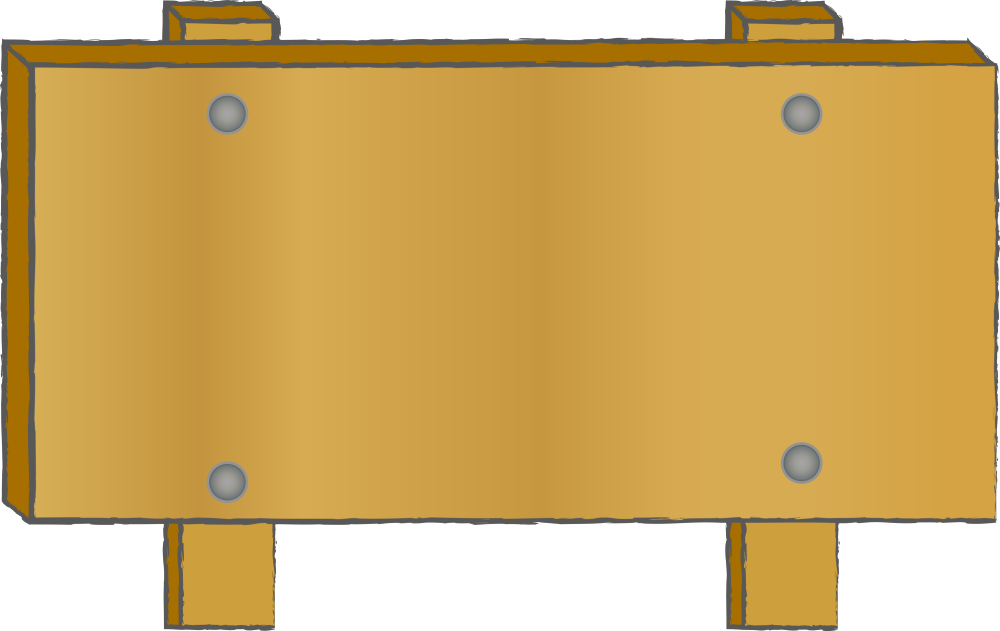
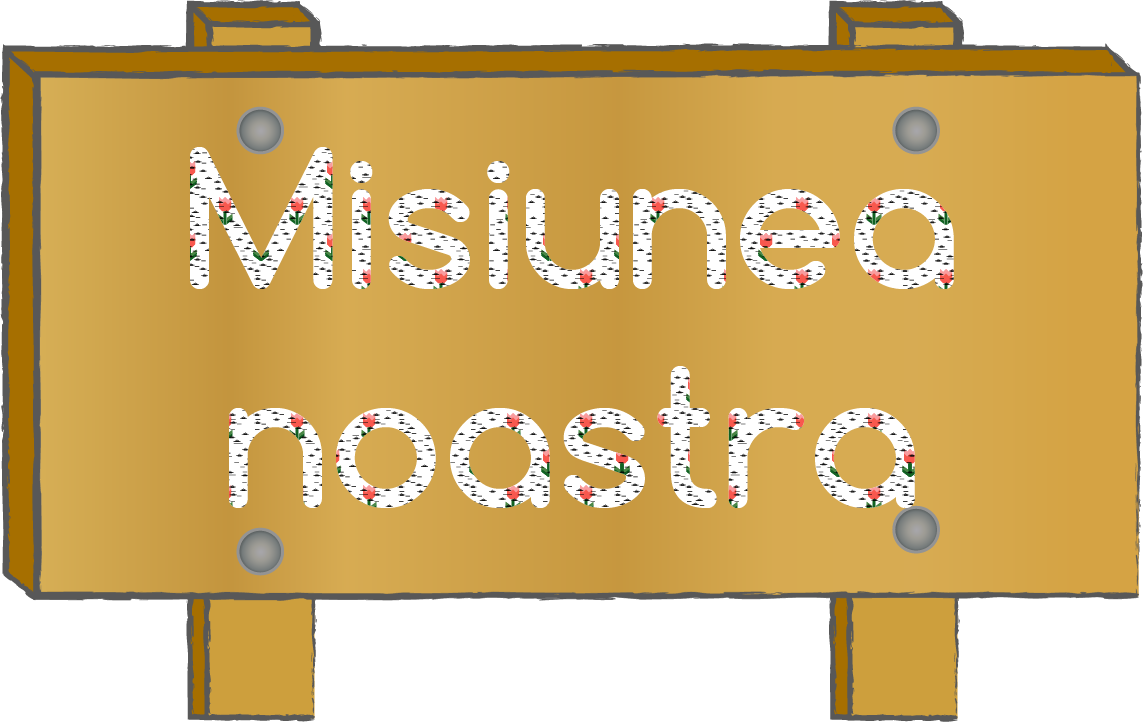
Finish "despre noi" section.

diff --git a/css/style.css b/css/style.css
@@ -121,13 +121,27 @@ div.div_despre{
     margin: 30px;
     padding: 20px;
     background-color: white;
+    background-image: url(../static/baloons_girl-transparent20.png);
+    background-repeat: no-repeat;
+    background-size: 40%;
+    background-origin: content-box;
     width: 90%;
     font-family: Comfortaa;
     font-size: 20px;
+    display: block;
+
 }
 
-.plank{
+img.plank{
     width: 50%;
     margin: auto;
-    padding: 100px;
+    padding: 20px;
+}
+div.plank{
+    width: 50%;
+    /* margin: auto; */
+    /* padding: 100px; */
+    vertical-align: middle;
+    text-align: center;
+    display: table-cell;
 }

diff --git a/index.html b/index.html
@@ -120,14 +120,10 @@
     </p>
 
 
-
-
-
-<img class="plank" src="static/wood_plank.png">
-
+<div class="plank">
+    <img class="plank" src="static/wood_plank.png">
 </div>
-
-
+</div>
 
 <!--END Despre Noi-->
 
